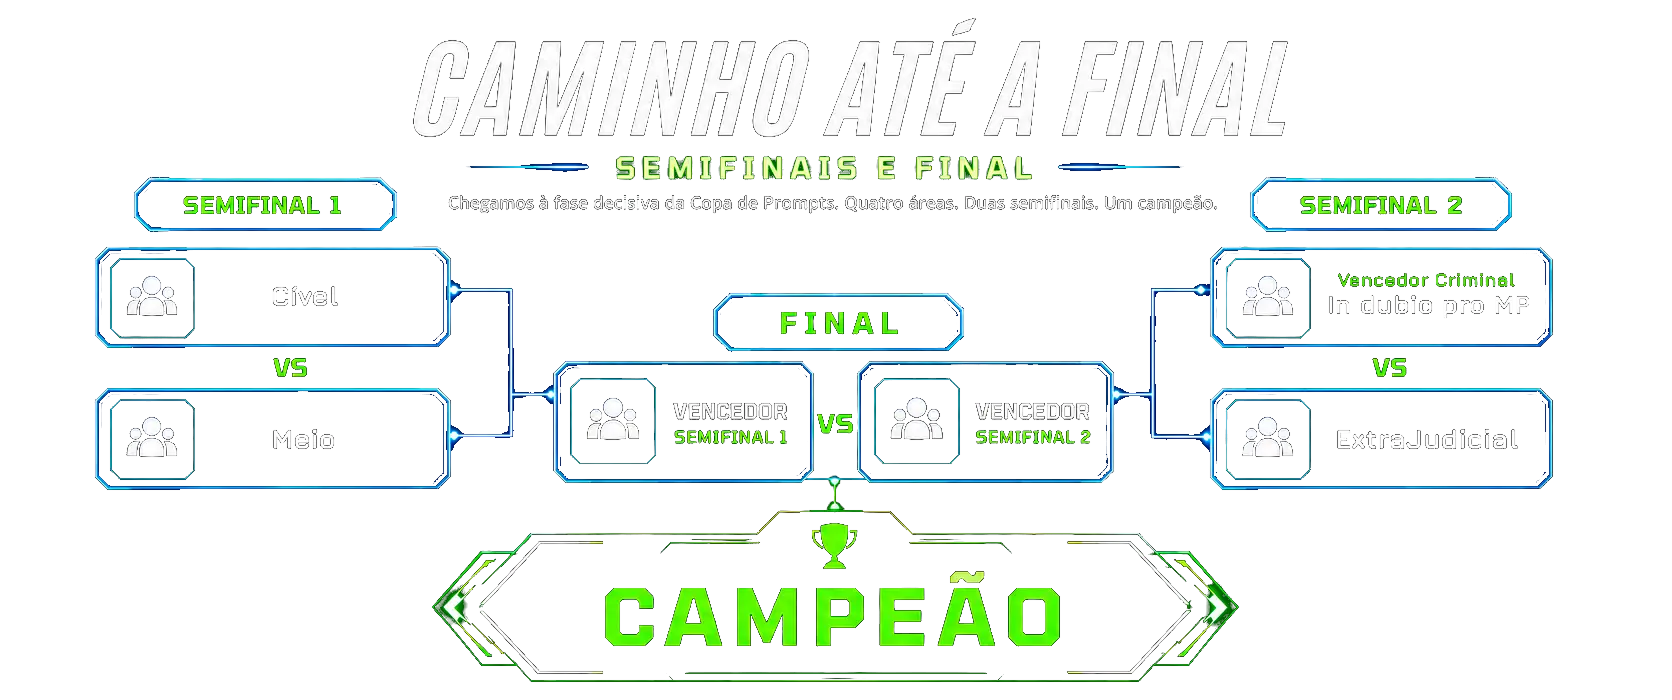
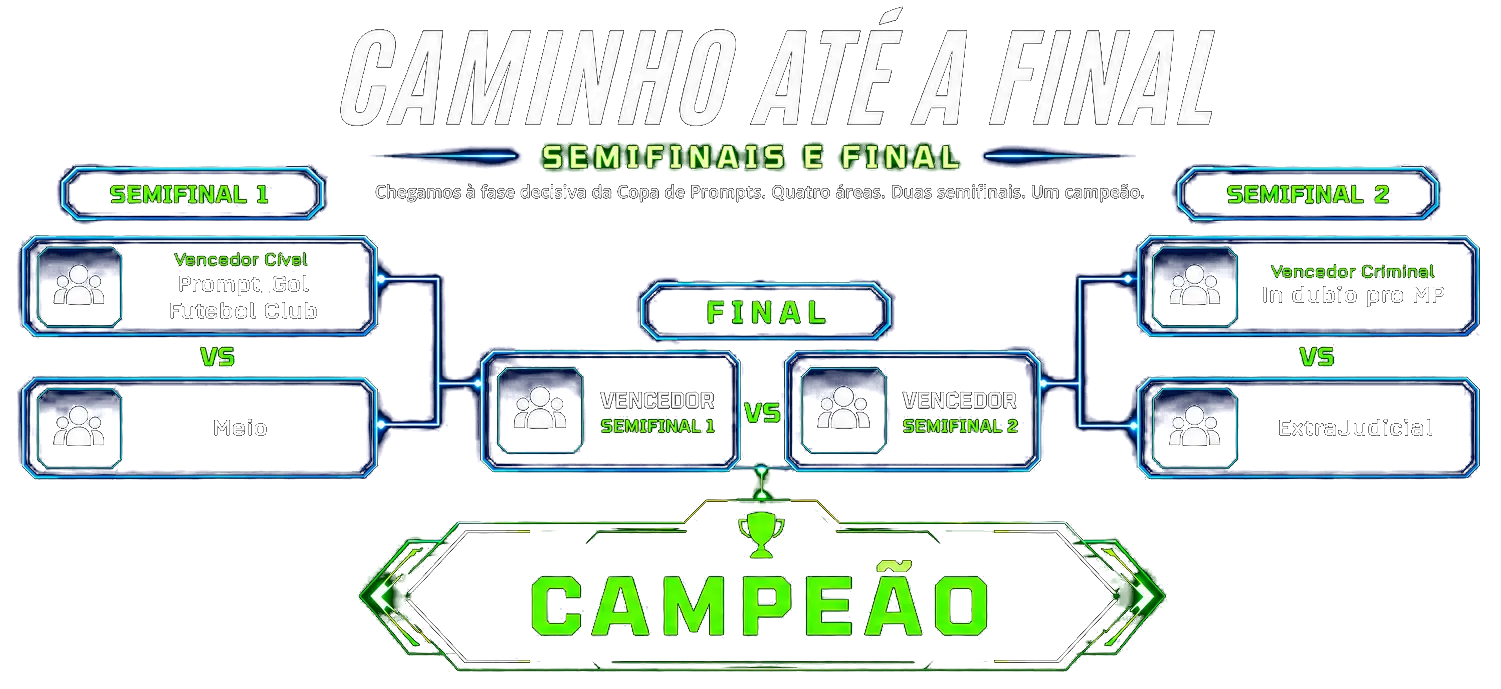
Update bracket image and civil group results

Changed region(s): [[0.0, 0.0305, 1.0, 0.9753], [0.1532, 0.6096, 0.2145, 0.6401]]

diff --git a/index.html b/index.html
@@ -229,11 +229,11 @@
                             </div>
                         </div>
                         <ul class="groups-team-list">
-                            <li>A Grande Família <span>3 jogadores</span></li>
-                            <li>Algoritmo da Gameleira <span>4 jogadores</span></li>
-                            <li>Canarana Jurídica <span>4 jogadores</span></li>
+                            <li class="group-champion">Prompt_Gol Futebol Club <span>Campeões do grupo · 3 jogadores</span></li>
+                            <li class="group-runner-up">Algoritmo da Gameleira <span>2º lugar · 4 jogadores</span></li>
+                            <li class="group-third-place">A Grande Família <span>3º lugar · 3 jogadores</span></li>
+                            <li class="group-third-place">Canarana Jurídica <span>3º lugar · 4 jogadores</span></li>
                             <li>Promptoria da Educação <span>2 jogadores</span></li>
-                            <li>Prompt_Gol Futebol Club <span>3 jogadores</span></li>
                             <li>Socioeducação F.C <span>4 jogadores</span></li>
                         </ul>
                     </article>

diff --git a/styles.css b/styles.css
@@ -560,10 +560,10 @@ body {
 .finals-board img {
     display: block;
     width: min(100%, 79.9rem);
-    aspect-ratio: 1672 / 700;
+    aspect-ratio: 1501 / 689;
     height: auto;
     object-fit: contain;
-    mix-blend-mode: screen;
+    mix-blend-mode: normal;
     filter: brightness(1.08) saturate(1.1) contrast(1.08);
 }
 
